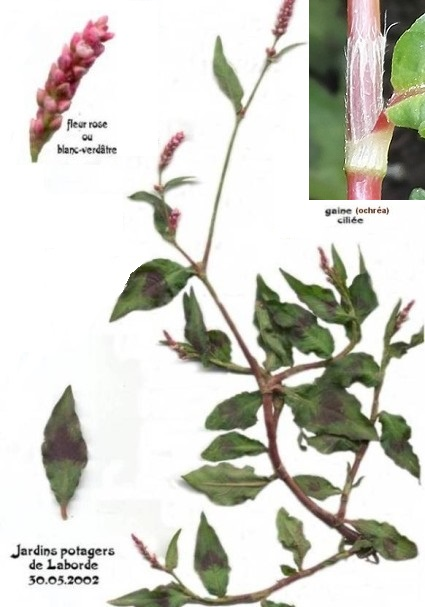
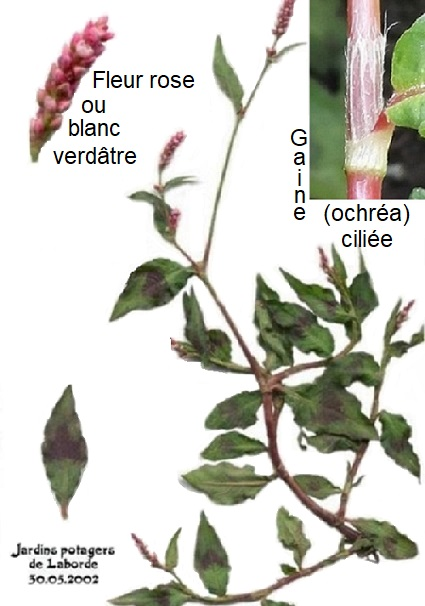
Corrections diverses

diff --git a/flsv/familles_botaniques/ordCaryophyllales.htm b/flsv/familles_botaniques/ordCaryophyllales.htm
@@ -68,13 +68,13 @@
 
     #article .listeF h5 {
         text-align: left;
-        font-size: 0.9em;
+        font-size: 1.1em;
         color: #dc5709;
     }
 
     #article .listeF h6 {
         text-align: left;
-        font-size: 0.8em;
+        font-size: 1.0em;
         color: #359913;
     }
 
@@ -182,18 +182,18 @@
                                     <li><img src="../../imag03/blcreme.jpg" width="9" height="9" /><img src="../../imag03/blanc.jpg" width="9" height="9" /><a href="../blanc/fagopyrum_esculentum.htm">Fagopyrum esculentum</a></li>
                                     <li><img src="../../imag03/blanc.jpg" width="9" height="9" /><a href="../blanc/fallopia_baldschuanica.htm">Fallopia baldschuanica</a></li>
                                     <li><img src="../../imag03/rose.jpg" width="9" height="9" /><a href="../pink/fallopia_convolvulus.htm">Fallopia convolvulus</a></li>
-                                    <li>Fallopia dumetorum</li>
+                                    <li>Fallopia dumetorum<br /><br /></li>
                                     <li>Persicaria amphibia</li>
                                     <li><img src="../../imag03/rose.jpg" width="9" height="9" /><a href="../pink/persicaria_hydropiper.htm">Persicaria hydropiper</a></li>
                                     <li><img src="../../imag03/blcreme.jpg" width="9" height="9" /><a href="../blanc/persicaria_lapathifolia.htm">Persicaria lapathifolia</a></li>
                                     <li><img src="../../imag03/blcreme.jpg" width="9" height="9" /><img src="../../imag03/rose.jpg" width="9" height="9" /><a href="../pink/persicaria_maculosa.htm">Persicaria maculosa</a></li>
                                     <li>Persicaria minor</li>
-                                    <li>Persicaria mitis</li>
-                                    <li>-------<br />Persicaria orientalis (introduite il fut un temps, semble avoir disparu de l'Yonne)</li>
+                                    <li><a style="background-color:#fafce1" href="https://thumb.wikimedia.org/wikipedia/commons/thumb/8/8d/Persicaria_dubia2_W.jpg/960px-Persicaria_dubia2_W.jpg?utm_source=commons.wikimedia.org&utm_campaign=imageinfo&utm_content=thumbnail">Persicaria mitis</a></li>
+                                    <li>Persicaria orientalis (introduite il fut un temps, semble avoir disparu de l'Yonne)<br /><br /></li>
                                     <li><a name="plyg"></a><img src="../../imag03/blanc.jpg" width="9" height="9" /><img src="../../imag03/rose.jpg" width="9" height="9" /><a href="../blanc/polygonum_aviculare.htm">Polygonum aviculare</a> subsp. aviculare</li>
                                     <li>Polygonum aviculare subsp. depressum</li>
                                     <li>Polygonum aviculare subsp. rurivagum</li>
-                                    <li>Polygonum bellardii</li>
+                                    <li><a style="background-color:#fafce1" href="https://powo.science.kew.org/taxon/urn:lsid:ipni.org:names:206101-2">Polygonum bellardii</a></li>
                                       <li><img src="../../imag03/blanc.jpg" width="9" height="9" /><a href="../blanc/reynoutria_japonica.htm">Reynoutria japonica</a></li>
                                     <li>Reynoutria sachalinensis</li>
                                     <li>Reynoutria x bohemica</li>
